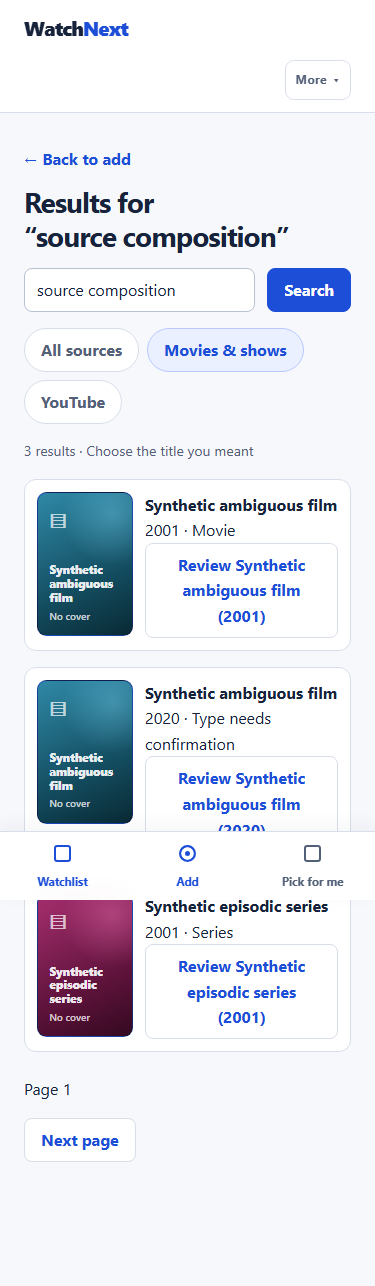
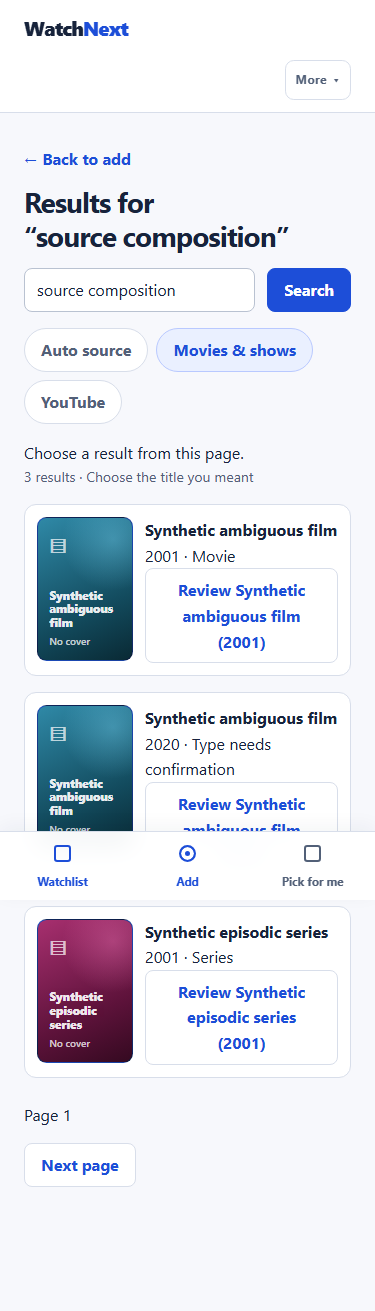
Repair source search and visual evidence for #75

diff --git a/app/watchlist/add/lookup-panel.tsx b/app/watchlist/add/lookup-panel.tsx
@@ -7,17 +7,22 @@ import { Cover } from "../cover";
 export type LookupAction = (form: FormData) => Promise<ReviewResult>;
 export function LookupPanel({lookup,select,page,apply,revision,invalidate,reset=0}: {lookup:LookupAction;select:LookupAction;page?:LookupAction;apply:(handle:string,item:MetadataItem,revision:number)=>void;revision:()=>number;invalidate:()=>void;reset?:number}) {
   const [source,setSource]=useState("manual"),[kind,setKind]=useState("link"),[query,setQuery]=useState(""),[result,setResult]=useState<ReviewResult|null>(null),[loading,setLoading]=useState("");
+  const [showResults,setShowResults]=useState(false);
   const generation=useRef(0),feedback=useRef<HTMLParagraphElement>(null);
-  const cancel=()=>{generation.current++;setLoading("");setResult(null);invalidate();};
-  useEffect(()=>{generation.current++;setLoading("");setResult(null);return()=>{generation.current++;};},[reset]);
+  const cancel=()=>{generation.current++;setLoading("");setResult(null);setShowResults(false);invalidate();};
+  useEffect(()=>{generation.current++;setLoading("");setResult(null);setShowResults(false);return()=>{generation.current++;};},[reset]);
   async function run(action:LookupAction,form:FormData,label:string) {
     invalidate();const current=++generation.current,started=revision();let itemResult=false;setLoading(label);
-    try{const next=await action(form);if(generation.current!==current)return;setResult(next);if((next.kind==="available"||next.kind==="incomplete")&&next.handle){itemResult=true;apply(next.handle,next.item,started);}}
+    try{const next=await action(form);if(generation.current!==current)return;setResult(next);if((next.kind==="available"||next.kind==="incomplete")&&next.handle){itemResult=true;setShowResults(false);apply(next.handle,next.item,started);}}
     catch{if(generation.current===current)setResult({kind:"failure",code:"provider_error",message:"Lookup could not finish. Your details are kept; retry or enter them manually.",retry:"user",retryAfterSeconds:null,manualFallback:true});}
     finally{if(generation.current===current){setLoading("");queueMicrotask(()=>{if(!itemResult&&revision()===started)feedback.current?.focus();});}}
   }
-  const search=()=>{const form=new FormData();const chosen=source==="manual"?(query.includes("youtu")?"youtube":"kinopoisk_unofficial"):source;form.set("source",chosen);form.set("query",query);if(chosen==="youtube"&&kind==="title")form.set("queryKind","title");void run(lookup,form,chosen==="youtube"&&kind==="link"?"Looking up YouTube video…":"Searching titles…");};
+  const search=(selected=source, selectedKind=kind)=>{const form=new FormData();const chosen=selected==="manual"?(query.includes("youtu")?"youtube":"kinopoisk_unofficial"):selected;const direct=chosen==="youtube"&&selectedKind==="link";form.set("source",chosen);form.set("query",query);if(chosen==="youtube"&&selectedKind==="title")form.set("queryKind","title");setShowResults(!direct);setResult(null);void run(lookup,form,direct?"Looking up YouTube video…":"Searching titles…");};
+  const switchResultSource=(selected:string)=>{const nextKind=query.includes("youtu")?"link":"title";setSource(selected);setKind(nextKind);search(selected,nextKind);};
+  const editResultQuery=(value:string)=>{generation.current++;setLoading("");setResult(null);invalidate();setQuery(value);};
   const navigation=result?.page;
+  const feedbackMessage=loading||(result?.kind==="failure"?result.message:result?.kind==="no_match"?"No matching titles on this page. Try another page or continue manually.":result?.kind==="candidates"?"Choose a result from this page.":result?.kind==="available"||result?.kind==="incomplete"?"Lookup finished. Check your form or replacement confirmation below before saving.":"");
+  const feedbackElement=<p ref={feedback} tabIndex={-1} role={result?.kind==="failure"?"alert":"status"}>{feedbackMessage}</p>;
   return <section className="source-search-card" aria-labelledby="lookup-heading"><h2 className="visually-hidden" id="lookup-heading">Search a title</h2>
     <label className="visually-hidden" htmlFor="lookup-source">Entry method</label><select className="visually-hidden" id="lookup-source" tabIndex={-1} value={source} onChange={event=>{cancel();setSource(event.target.value);setQuery("");}}><option value="manual">Manual entry</option><option value="youtube">YouTube</option><option value="kinopoisk_unofficial">Кинопоиск Unofficial search</option></select>
     <><form className="source-search-form" onSubmit={event=>{event.preventDefault();search();}}><label className="visually-hidden" htmlFor="lookup-query">{source==="youtube"?(kind==="title"?"YouTube title":"YouTube video link or ID"):source==="manual"?"Search title or paste YouTube link":"Title to search"}</label><input className="field" id="lookup-query" value={query} onChange={event=>{cancel();setQuery(event.target.value);}} placeholder="Search a title or paste a YouTube link"/><button className="button" aria-label={source==="youtube"&&kind==="link"?"Look up video":"Search titles"} disabled={Boolean(loading)} type="submit">{source==="youtube"&&kind==="link"?"Look up video":"Search"}</button></form>
@@ -25,8 +30,8 @@ export function LookupPanel({lookup,select,page,apply,revision,invalidate,reset=
       {source==="youtube"&&<><label className="visually-hidden" htmlFor="youtube-kind">YouTube lookup</label><select className="visually-hidden" id="youtube-kind" tabIndex={-1} value={kind} onChange={event=>{cancel();setKind(event.target.value);setQuery("");}}><option value="link">Video link or ID</option><option value="title">Title search</option></select><div className="source-search-options" aria-label="YouTube search mode"><span>YouTube</span><button type="button" aria-pressed={kind==="link"} onClick={()=>{cancel();setKind("link");setQuery("");}}>Link or ID</button><button type="button" aria-pressed={kind==="title"} onClick={()=>{cancel();setKind("title");setQuery("");}}>Title</button></div></>}
       {source==="kinopoisk_unofficial"&&<p className="source-search-hint">Third-party Кинопоиск metadata; availability and rights are unverified.</p>}
       {loading&&<button className="button button-secondary" type="button" onClick={cancel}>Cancel lookup</button>}
-      <p ref={feedback} tabIndex={-1} role={result?.kind==="failure"?"alert":"status"}>{loading||(result?.kind==="failure"?result.message:result?.kind==="no_match"?"No matching titles on this page. Try another page or continue manually.":result?.kind==="candidates"?"Choose a result from this page.":result?.kind==="available"||result?.kind==="incomplete"?"Lookup finished. Check your form or replacement confirmation below before saving.":"")}</p>
-      {!loading&&result?.kind==="candidates"&&<section className="source-results" aria-label="Search results"><button type="button" onClick={cancel} className="source-back-link">← Back to add</button><h2>Results for “{query}”</h2><form className="source-results-search" onSubmit={event=>{event.preventDefault();search();}}><label className="visually-hidden" htmlFor="result-query">Search</label><input className="field" id="result-query" value={query} onChange={event=>setQuery(event.target.value)}/><button className="button" type="submit">Search</button></form><div className="source-result-filters" aria-label="Search source"><button type="button" className="source-result-filter" aria-pressed={source==="manual"} onClick={()=>{cancel();setSource("manual");}}>All sources</button><button type="button" className="source-result-filter" aria-pressed={source==="kinopoisk_unofficial"} onClick={()=>{cancel();setSource("kinopoisk_unofficial");}}>Movies & shows</button><button type="button" className="source-result-filter" aria-pressed={source==="youtube"} onClick={()=>{cancel();setSource("youtube");}}>YouTube</button></div><p className="source-result-count" aria-live="polite">{result.candidates.length} results · Choose the title you meant</p><ul className="lookup-results">{result.candidates.map(candidate=><li className="lookup-card" key={candidate.identity.externalId}><Cover url={candidate.coverUrl} title={candidate.title} video={candidate.identity.namespace==="youtube"}/><div><h5>{candidate.title??"Title unavailable"}</h5>{candidate.identity.namespace==="youtube"?<p>{candidate.channelTitle??"Channel unknown"} · {durationLabel(candidate.duration?.seconds??null)}</p>:<p>{candidate.year??"Year unknown"} · {contentTypes.find(type=>type.value===candidate.contentType)?.label??"Type needs confirmation"}</p>}<button className="button button-secondary" type="button" onClick={()=>{const form=new FormData();form.set("handle",result.handle!);form.set("candidateId",candidate.identity.externalId);void run(select,form,"Loading selected title…");}}>Review {candidate.title??candidate.identity.externalId}{candidate.identity.namespace==="youtube"?"":` (${candidate.year??"unknown year"})`}</button></div></li>)}</ul></section>}
+      {!showResults&&feedbackElement}
+      {showResults&&<section className="source-results" aria-label="Search results"><button type="button" onClick={cancel} className="source-back-link">← Back to add</button><h2>Results for “{query}”</h2><form className="source-results-search" onSubmit={event=>{event.preventDefault();search();}}><label className="visually-hidden" htmlFor="result-query">Search</label><input className="field" id="result-query" value={query} onChange={event=>editResultQuery(event.target.value)}/><button className="button" type="submit">Search</button></form><div className="source-result-filters" aria-label="Search source"><button type="button" className="source-result-filter" aria-pressed={source==="manual"} onClick={()=>switchResultSource("manual")}>Auto source</button><button type="button" className="source-result-filter" aria-pressed={source==="kinopoisk_unofficial"} onClick={()=>switchResultSource("kinopoisk_unofficial")}>Movies & shows</button><button type="button" className="source-result-filter" aria-pressed={source==="youtube"} onClick={()=>switchResultSource("youtube")}>YouTube</button></div>{feedbackElement}{!loading&&result?.kind==="candidates"&&<><p className="source-result-count" aria-live="polite">{result.candidates.length} results · Choose the title you meant</p><ul className="lookup-results">{result.candidates.map(candidate=><li className="lookup-card" key={candidate.identity.externalId}><Cover url={candidate.coverUrl} title={candidate.title} video={candidate.identity.namespace==="youtube"}/><div><h5>{candidate.title??"Title unavailable"}</h5>{candidate.identity.namespace==="youtube"?<p>{candidate.channelTitle??"Channel unknown"} · {durationLabel(candidate.duration?.seconds??null)}</p>:<p>{candidate.year??"Year unknown"} · {contentTypes.find(type=>type.value===candidate.contentType)?.label??"Type needs confirmation"}</p>}<button className="button button-secondary" type="button" onClick={()=>{const form=new FormData();form.set("handle",result.handle!);form.set("candidateId",candidate.identity.externalId);void run(select,form,"Loading selected title…");}}>Review {candidate.title??candidate.identity.externalId}{candidate.identity.namespace==="youtube"?"":` (${candidate.year??"unknown year"})`}</button></div></li>)}</ul></>}</section>}
       {!loading&&navigation&&<nav aria-label="Search pages"><p>Page {navigation.number}{navigation.limitReached?" · Page limit reached. Start a new search to continue.":""}</p>{page&&(["previous","next"] as const).map(direction=>navigation[direction]&&<button className="button button-secondary" key={direction} type="button" onClick={()=>{const form=new FormData();form.set("handle",navigation[direction]!);form.set("direction",direction);void run(page,form,"Loading search page…");}}>{direction==="next"?"Next page":"Previous page"}</button>)}</nav>}
     </>
   </section>;

diff --git a/tests/lookup-panel.test.tsx b/tests/lookup-panel.test.tsx
@@ -1,4 +1,4 @@
-import { act, cleanup, fireEvent, render, screen, waitFor } from "@testing-library/react";
+import { act, cleanup, fireEvent, render, screen, waitFor, within } from "@testing-library/react";
 import { afterEach, expect, it, vi } from "vitest";
 import { TitleForm } from "../app/watchlist/add/title-form";
 import { lookupMetadata } from "../lib/metadata/lookup";
@@ -44,6 +44,25 @@ it("YouTube title intent and both providers use explicit candidate and opaque pa
 });
 it("explicit candidate selection fills clean form without assigning moods",async()=>{
  const find=vi.fn(async()=>({kind:"candidates",handle:"search",requiresSelection:true,omittedInvalidCandidates:false,candidates:[{identity:{namespace:"kinopoisk_unofficial",externalId:"1001"},title:"Same",year:2001,contentType:"movie",coverUrl:null}]} as ReviewResult));const select=vi.fn(async(_form:FormData)=>proposal("Chosen"));render(<TitleForm action={save} lookup={find} select={select}/>);source("kinopoisk_unofficial");click("Search titles");await screen.findByRole("button",{name:"Review Same (2001)"});expect(select).not.toHaveBeenCalled();click("Review Same (2001)");await waitFor(()=>expect(input("Title").value).toBe("Chosen"));expect(select.mock.calls[0][0].get("candidateId")).toBe("1001");expect(input("Funny").checked).toBe(false);
+});
+
+it("switching result sources repeats the same query against the chosen provider and ignores late results",async()=>{
+ const requests:{form:FormData;resolve:(value:ReviewResult)=>void}[]=[];
+ const find=vi.fn((form:FormData)=>new Promise<ReviewResult>(resolve=>requests.push({form,resolve})));
+ const results=(namespace:"youtube"|"kinopoisk_unofficial",title:string):ReviewResult=>({kind:"candidates",handle:"search",requiresSelection:true,omittedInvalidCandidates:false,candidates:[{identity:{namespace,externalId:namespace==="youtube"?"YtFixture01":"1001"},title,year:2001,contentType:namespace==="youtube"?"youtube":"movie",coverUrl:null}]});
+ render(<TitleForm action={save} lookup={find} select={vi.fn()}/>);source("kinopoisk_unofficial");edit("Title to search","Shared query");click("Search titles");
+ await act(async()=>requests[0].resolve(results("kinopoisk_unofficial","Film result")));
+ const region=screen.getByRole("region",{name:"Search results"});
+ fireEvent.click(within(region).getByRole("button",{name:"YouTube"}));
+ expect(requests[1].form.get("source")).toBe("youtube");expect(requests[1].form.get("query")).toBe("Shared query");expect(requests[1].form.get("queryKind")).toBe("title");
+ fireEvent.click(within(region).getByRole("button",{name:"Movies & shows"}));
+ expect(requests[2].form.get("source")).toBe("kinopoisk_unofficial");expect(requests[2].form.get("query")).toBe("Shared query");
+ await act(async()=>requests[2].resolve(results("kinopoisk_unofficial","New film")));
+ await act(async()=>requests[1].resolve(results("youtube","Stale video")));
+ expect(within(region).getByRole("button",{name:"Review New film (2001)"})).toBeTruthy();expect(screen.queryByText("Stale video")).toBeNull();
+ fireEvent.click(within(region).getByRole("button",{name:"YouTube"}));
+ await act(async()=>requests[3].resolve({kind:"no_match",candidates:[],manualFallback:true} as ReviewResult));
+ expect(screen.getByText(/No matching titles/)).toBeTruthy();expect(within(region).getByRole("button",{name:"Movies & shows"})).toBeTruthy();
 });
 
 it("saving while lookup is pending prevents its late success from attaching identity or replacing submitted details",async()=>{

diff --git a/_docs/evidence/source-page-port-75/README.md b/_docs/evidence/source-page-port-75/README.md
@@ -11,12 +11,29 @@ for the external provider.
 | Page | Desktop 1280px | Mobile 375px | Source route |
 | --- | --- | --- | --- |
 | Account entry | [image](sign-in-1280.png) | [image](sign-in-375.png) | `index.tsx` |
+| Account creation | [image](register-1280.png) | [image](register-375.png) | `index.tsx` |
 | Shared list | [image](watchlist-1280.png) | [image](watchlist-375.png) | `watchlist.tsx` |
 | Add | [image](add-1280.png) | [image](add-375.png) | `add.tsx` |
 | Search results | [image](search-1280.png) | [image](search-375.png) | `search.tsx` |
 | Title detail | [image](detail-1280.png) | [image](detail-375.png) | `title.$id.tsx` |
 | Picker inputs | [image](picker-input-1280.png) | [image](picker-input-375.png) | `pick.tsx` |
 | Picker result | [image](picker-result-1280.png) | [image](picker-result-375.png) | `pick.tsx` |
+
+## Comparison against the pinned source
+
+The source screenshot pack is [`../../references/lovable-2026-10-19/`](../../references/lovable-2026-10-19/). It includes desktop sign-in, watchlist, Add and picker, and mobile sign-in. There are no source screenshots of registration, search results, detail, picker result, or the signed-in mobile views; those comparisons use the pinned route JSX and `src/styles.css`, not a claimed screenshot match. The local captures show synthetic data only; the account creation images were taken with all fields empty, before any recovery code appeared.
+
+| State | Source comparison and observed result |
+| --- | --- |
+| Sign-in | Compared to `sign-in-desktop.png` and `sign-in-mobile.png`: centered WatchNext brand and tagline, tabbed white account card and stacked input controls. WatchNext has real account/recovery links and explanatory text. |
+| Registration | No source capture: compared both local widths to the registration branch of `index.tsx`. The same centered two-tab card contains stacked username/password controls; WatchNext adds password confirmation for its real account flow. |
+| Shell and watchlist | Desktop compared to `watchlist-desktop.png`; mobile compared to `ui-kit.tsx` and `watchlist.tsx`. Logo, contextual pill, three primary destinations, heading, filter controls and cover-led five/two-column grid are present. WatchNext adds a More menu for real group, archive and account actions, and uses actual names and progress. |
+| Add | Desktop compared to `add-desktop.png`; mobile compared to `add.tsx`. A bounded column contains separate compact search and manual cards, four type tiles, duration/genre fields, mood chips and save action. WatchNext adds provider choices, validation and episode-specific fields. |
+| Search | No source capture: compared to `search.tsx` at both widths. Back link, query heading and form, provider chips, count and preview cards are present. The source uses a prototype combined catalog; WatchNext uses one real provider at a time and labels automatic selection “Auto source” rather than claiming combined results. |
+| Detail | No source capture: compared to `title.$id.tsx`. Cover, metadata and title appear side by side on desktop and stack on mobile, followed by progress, rating, notes and group feedback. WatchNext retains extra real metadata and separate save actions, so this view is taller. |
+| Picker input and result | Input desktop compared to `picker-desktop.png`; result and mobile compared to `pick.tsx`. Both use a bounded surface with viewer, time and mood chips and a full-width action; the result is a cover-led card. WatchNext shows actual viewer/eligibility guidance and safe pick-cycle feedback. |
+
+These are composition comparisons, not pixel measurements. The screenshot set does not establish live provider availability or human testing.
 
 ## Reproduce
 
